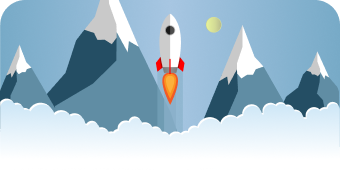
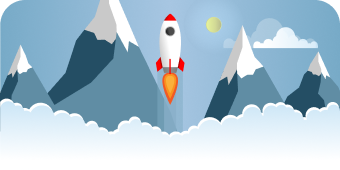
feat(pages): adds toggling of full changelog & updates light mode bg image

diff --git a/pages/changelogs/index.html b/pages/changelogs/index.html
@@ -123,6 +123,19 @@
     .logo {
       margin: 20px;
     }
+
+    .block {
+      display: block;
+    }
+
+    #full_list_close {
+      background-image: url('/pages/changelogs/assets/close-btn.png');
+      width: 40px;
+      height: 40px;
+      cursor: pointer;
+      margin: 20px auto;
+    }
+
   </style>
 </head>
 
@@ -132,16 +145,18 @@
     <div id="version_pill" class="primary text-bold"></div>
   </div>
   <div id="content" class="hidden">
-    <!-- <h3 id="title"></h3> -->
     <div id="important_list" class="list">
     </div>
-
     <button 
       id="full_list_title" 
-      onclick="toggleList('full_list')"
+      onclick="showChangelog()"
       class="primary text-bold">Read more</button>
-    <div id="full_list" class="hidden list" class="hidden">
+    <div id="full_list" class="list hidden">
     </div>
+    <div
+      id="full_list_close" 
+      class="hidden"
+      onclick="hideChangelog()"></div>
   </div>
   <script>
     document.addEventListener("DOMContentLoaded", async function() {
@@ -253,11 +268,27 @@
       return versions.json() 
     }
 
-    function toggleList(_list) {
-      const list = document.getElementById([_list])
-      list.style.display = list.style.display != 'block' ? 'block' : 'none'
+    function hideElement(_element) {
+      const element = document.getElementById([_element])
+      element.classList.add('hidden')
+    }
+
+    function showElement(_element) {
+      const element = document.getElementById([_element])
+      element.classList.remove('hidden')
     }
     
+    function showChangelog() {
+      showElement('full_list')
+      showElement('full_list_close')
+      hideElement('full_list_title')
+    }
+
+    function hideChangelog() {
+      hideElement('full_list')
+      hideElement('full_list_close')
+      showElement('full_list_title')
+    }
   </script>
 </body>
 
